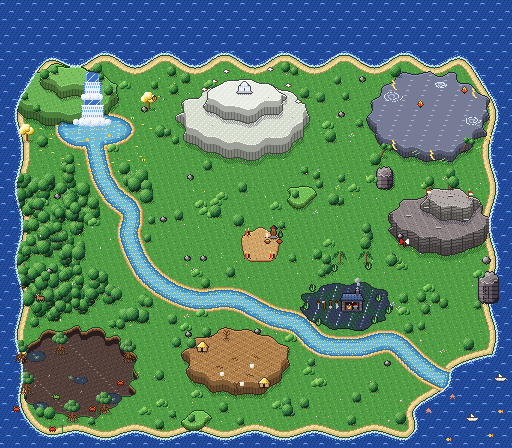
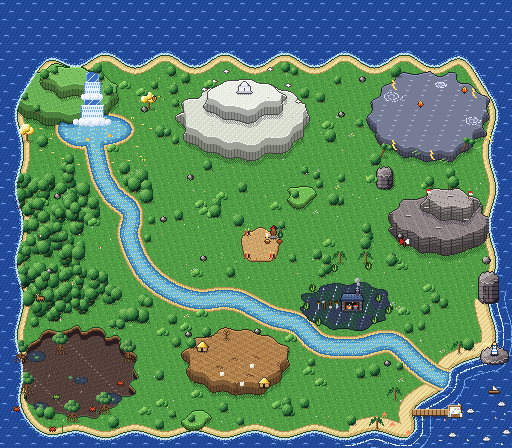
Ọ̀run: a praia de Iemanjá (trapiche com flores e velas, ondas, presentes no mar, jangada, farol, coqueiros e gaivotas)
Claude-Session: https://claude.ai/code/session_01YNJz6pAgFVkCK3E9s9URPQ

diff --git a/README.md b/README.md
@@ -216,6 +216,11 @@ no teclado, "Aperte E". Nos diálogos e avisos, escreva `{interagir}`, `{atirar}
 - **Som da chuva**: sempre que chove (no terreiro ou na terra de Nanã), toca o barulho da chuva caindo em laço
   (`sons/chuva.wav`), mais alto lá fora e abafado dentro de casa; na lagoa de Nanã ele engrossa com a chuva.
   Os relâmpagos agora têm trovão (`sons/trovao.wav`). Os dois sons são feitos pelo `gerar_som_chuva.py`.
+- **A praia de Iemanjá no Ọ̀run** (`praia_de_iemanja()` no `gerar_mapa_mundo.py`): praia larga com ondas chegando e
+  areia molhada, trapiche de madeira com o lugar de Iemanjá na ponta (flores e velas azuis e brancas), barquinhos e
+  flores de presente balançando no mar, jangada, peixe pulando, coqueiros, estrelas-do-mar e um farol nas pedras com a
+  luz girando. O ponto de Iemanjá fica na areia, no começo do trapiche. Gaivotas (`arte/mundo_gaivota.png`) voam em
+  roda sobre o mar (`_criar_gaivotas()` no `scripts/mapa_mundo.gd`).
 - **Ọ̀run, o lar dos orixás**: o mapa dos mundos se chama Ọ̀run. Sempre que Adé chega nele, aparece o letreiro
   "Ọ̀run · O lar dos orixás", como na chegada de cada mundo. A fonte padrão do projeto é a Noto Sans
   (`gui/theme/custom_font`), para os acentos do iorubá em cima de maiúsculas (Ọ̀) aparecerem.
